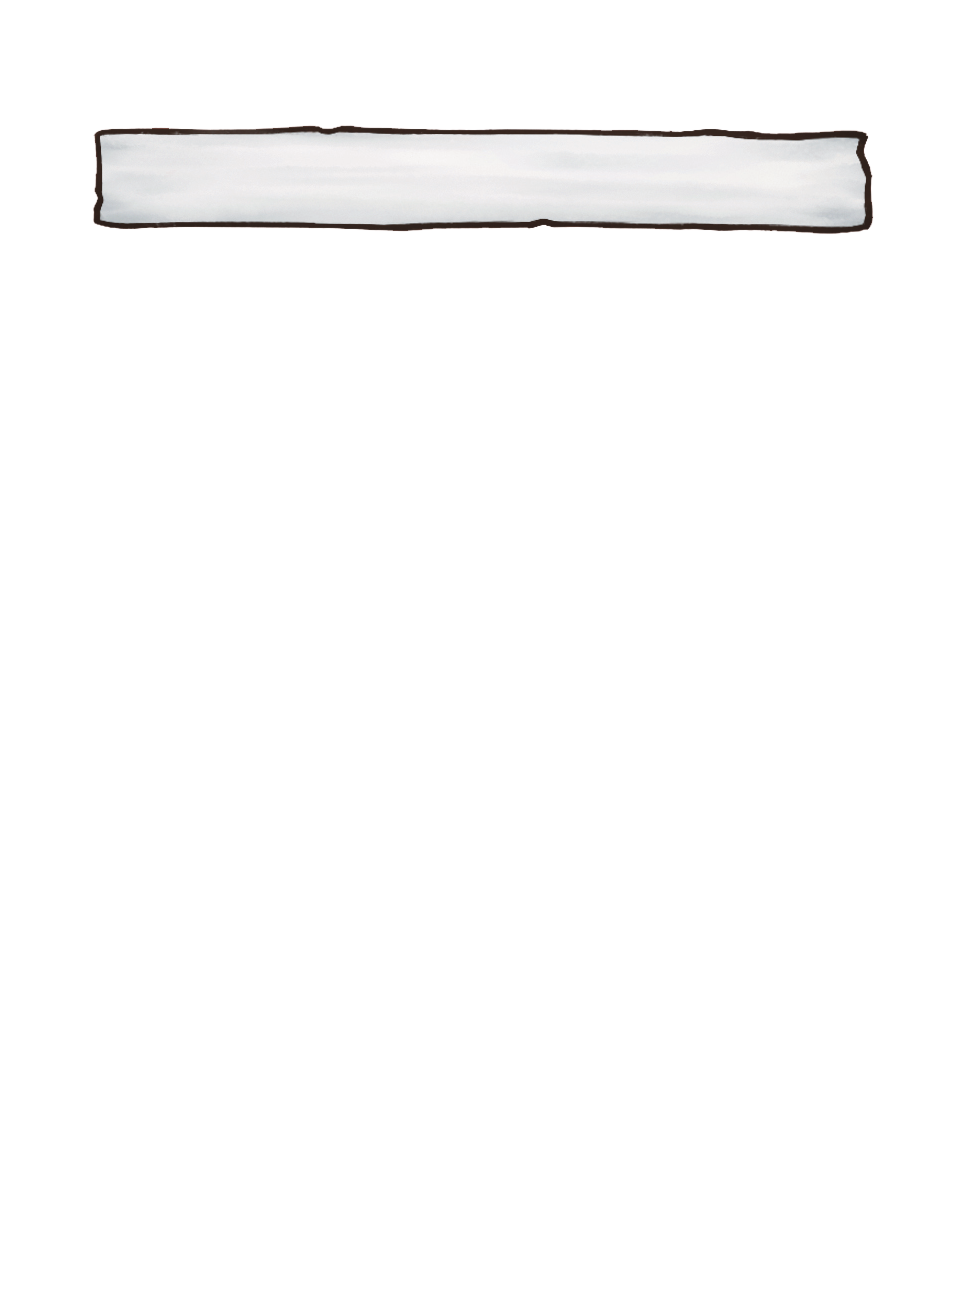
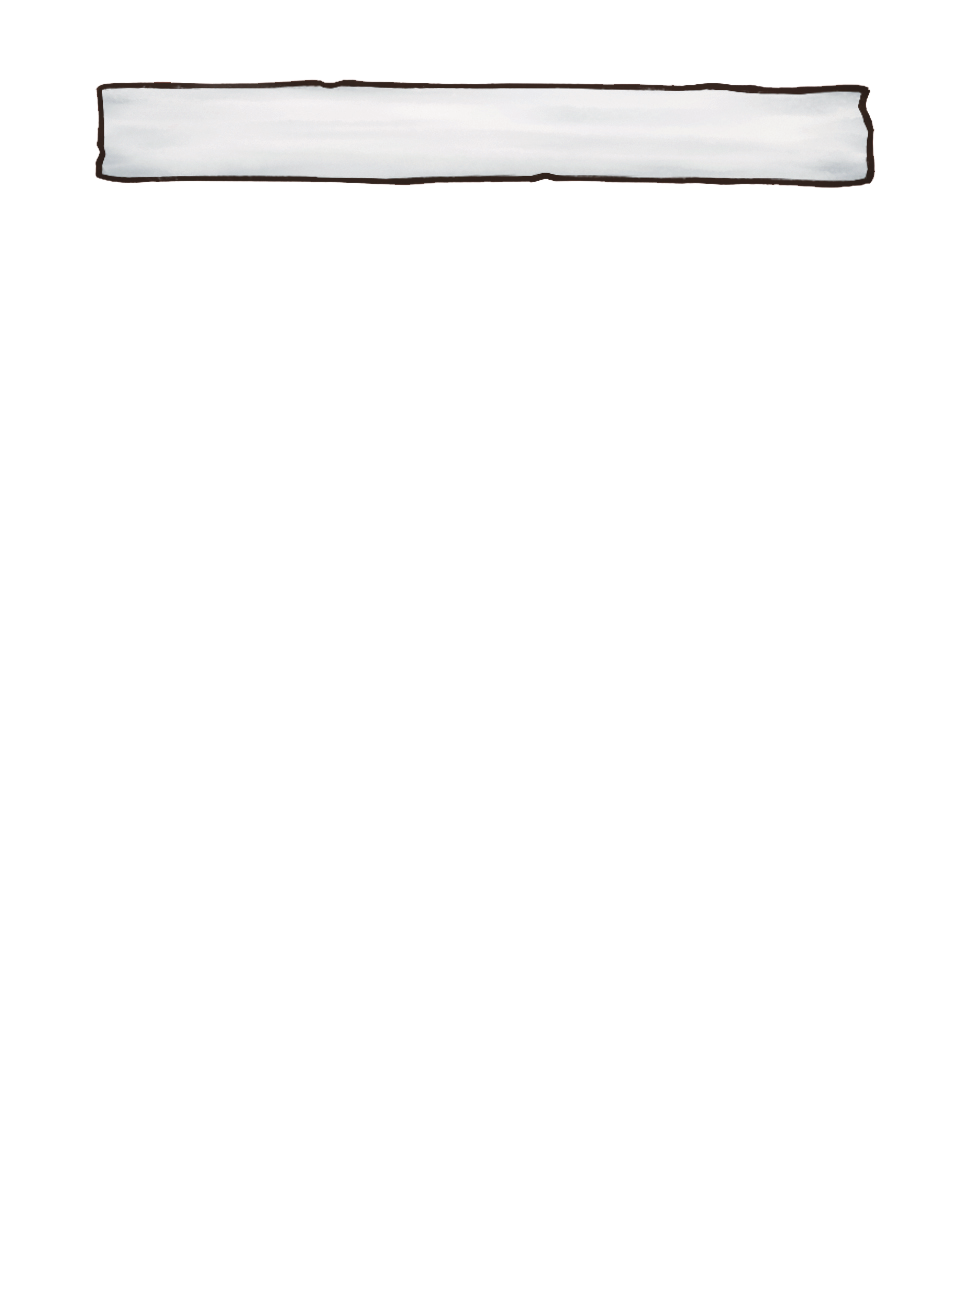
CardType and title update visual

Changed region(s): [[0.0936, 0.0625, 0.9356, 0.1875]]

diff --git a/src/Card.cs b/src/Card.cs
@@ -7,12 +7,32 @@ public partial class Card : Control
 {
 	public static Card instance;
 
+	[ExportGroup("Title")]
+	[Export] RichTextLabel titleLabel;
+
+	[ExportGroup("Textures")]
+	[Export] TextureRect bgTexture;
+
+	[Export] TextureRect bgOptBorder;
+	[Export] TextureRect bgOptBot;
+	[Export] TextureRect bgOptTop;
+
+	[Export] TextureRect fgBorder;
+	[Export] TextureRect fgBot;
+	[Export] TextureRect fgTop;
+
 	public override void _Ready() {
 		instance = this;
 	}
 
-	// Called every frame. 'delta' is the elapsed time since the previous frame.
-	public override void _Process(double delta)
-	{
+	public void SetTitle(string text) {
+		titleLabel.Text = "[center]" + text;
+	}
+
+	public void SetCardType(CardSubType cardType) {
+		bgTexture.Texture                      			= (Texture2D) cardType.bgTexture;
+		bgOptBorder.Texture 	= fgBorder.Texture 		= (Texture2D) cardType.border;
+		bgOptBot.Texture    	= fgBot.Texture     	= (Texture2D) cardType.bot;
+		bgOptTop.Texture    	= fgTop.Texture     	= (Texture2D) cardType.top;
 	}
 }

diff --git a/src/ui/SubTypeMenu.cs b/src/ui/SubTypeMenu.cs
@@ -8,9 +8,13 @@ public partial class SubTypeMenu : TypeMenu
 		cardTypes = newList;
 
 		UpdateItems();
+
+		OnItemSelected(0);
 	}
 
 	public override void OnItemSelected(long index) {
+		var selectedCardType = cardTypes[(int) index] as CardSubType;
 
+		Card.instance.SetCardType(selectedCardType);
 	}
 }
